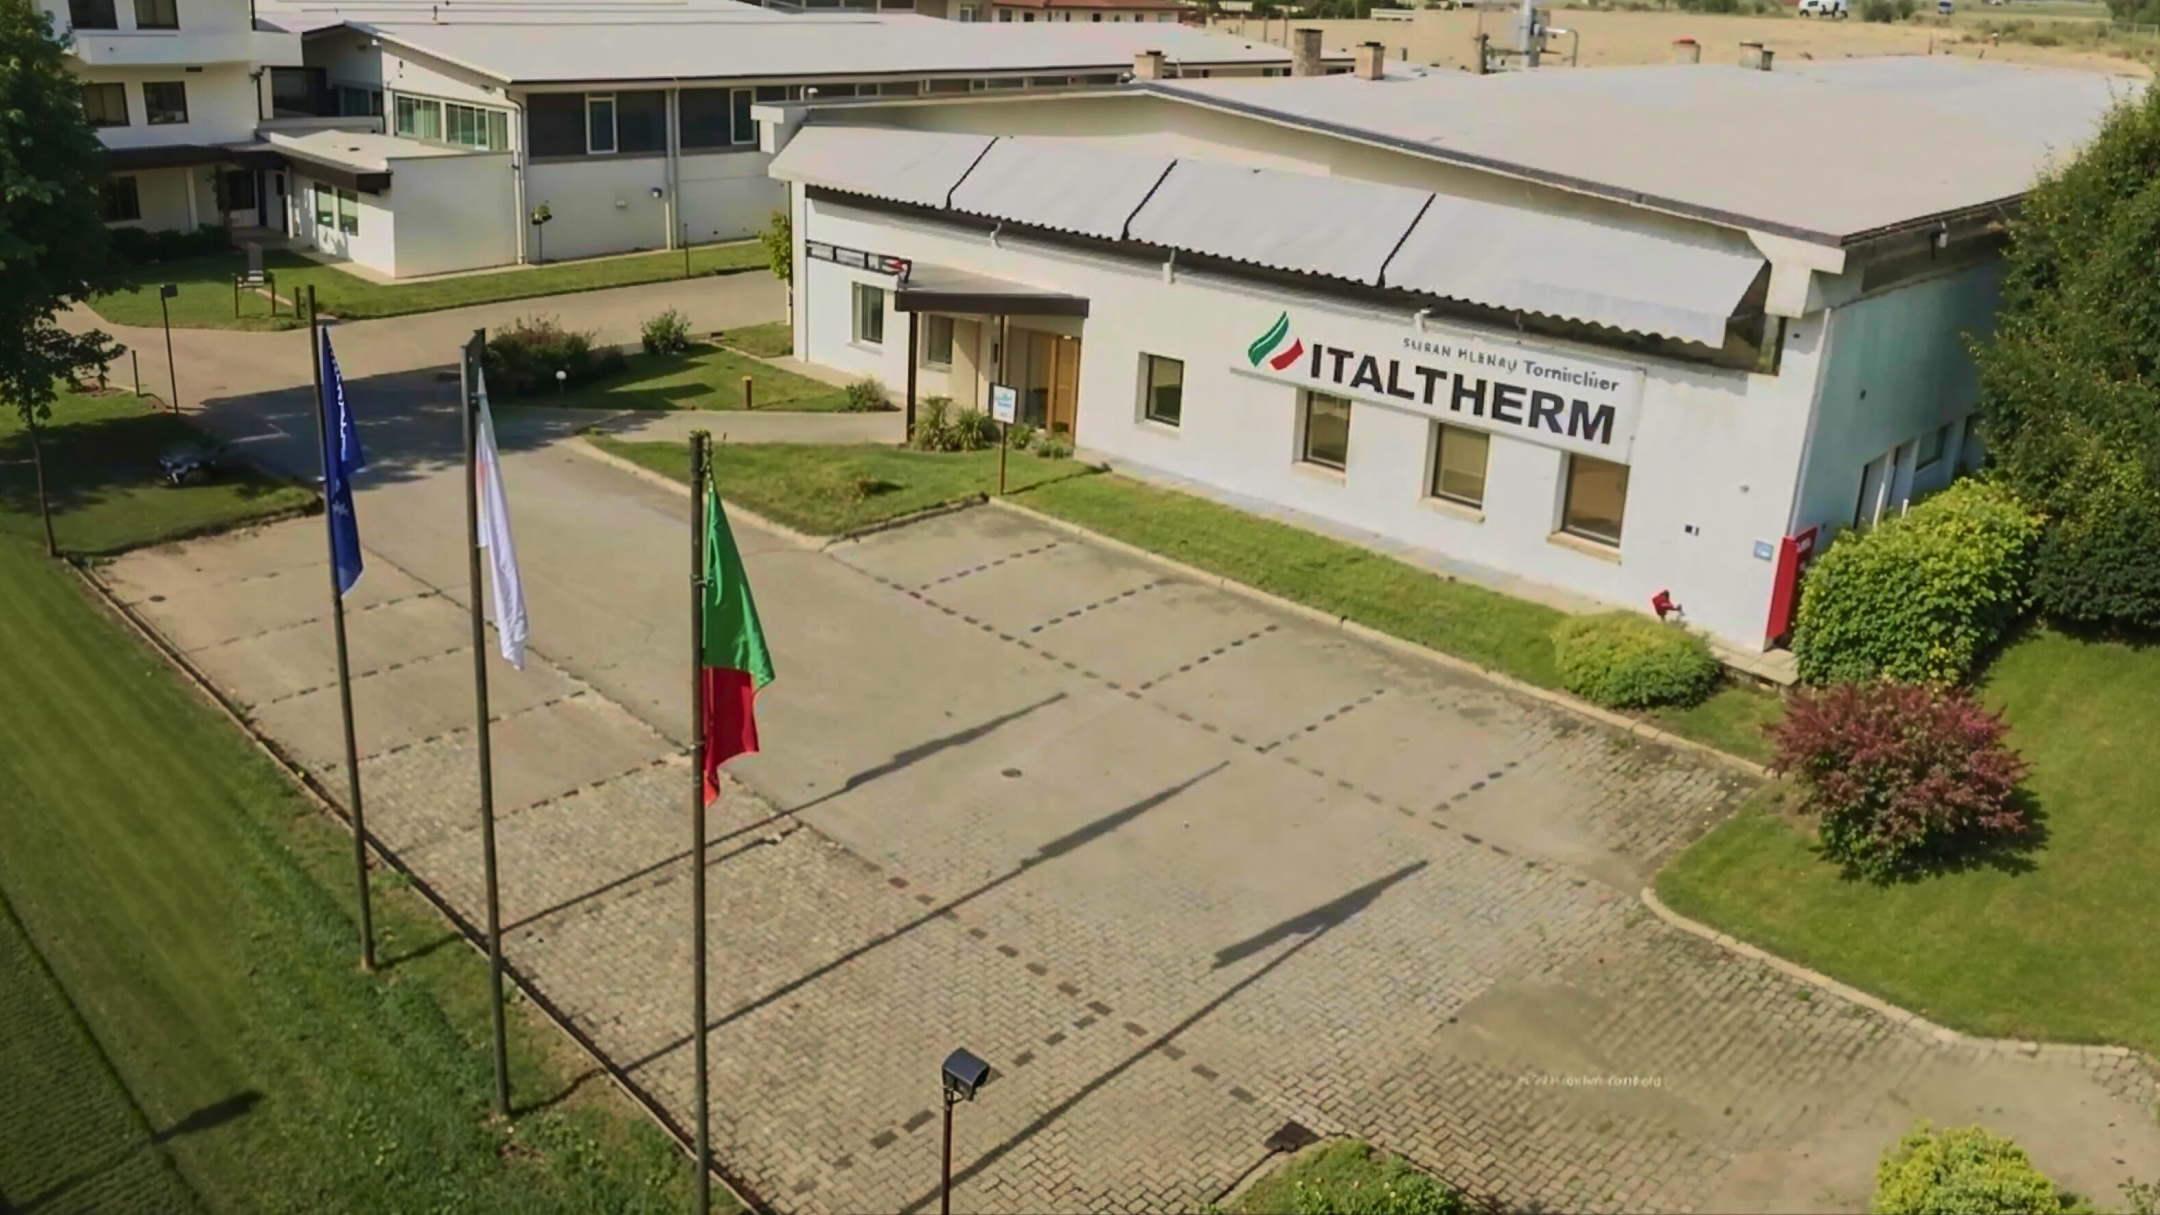
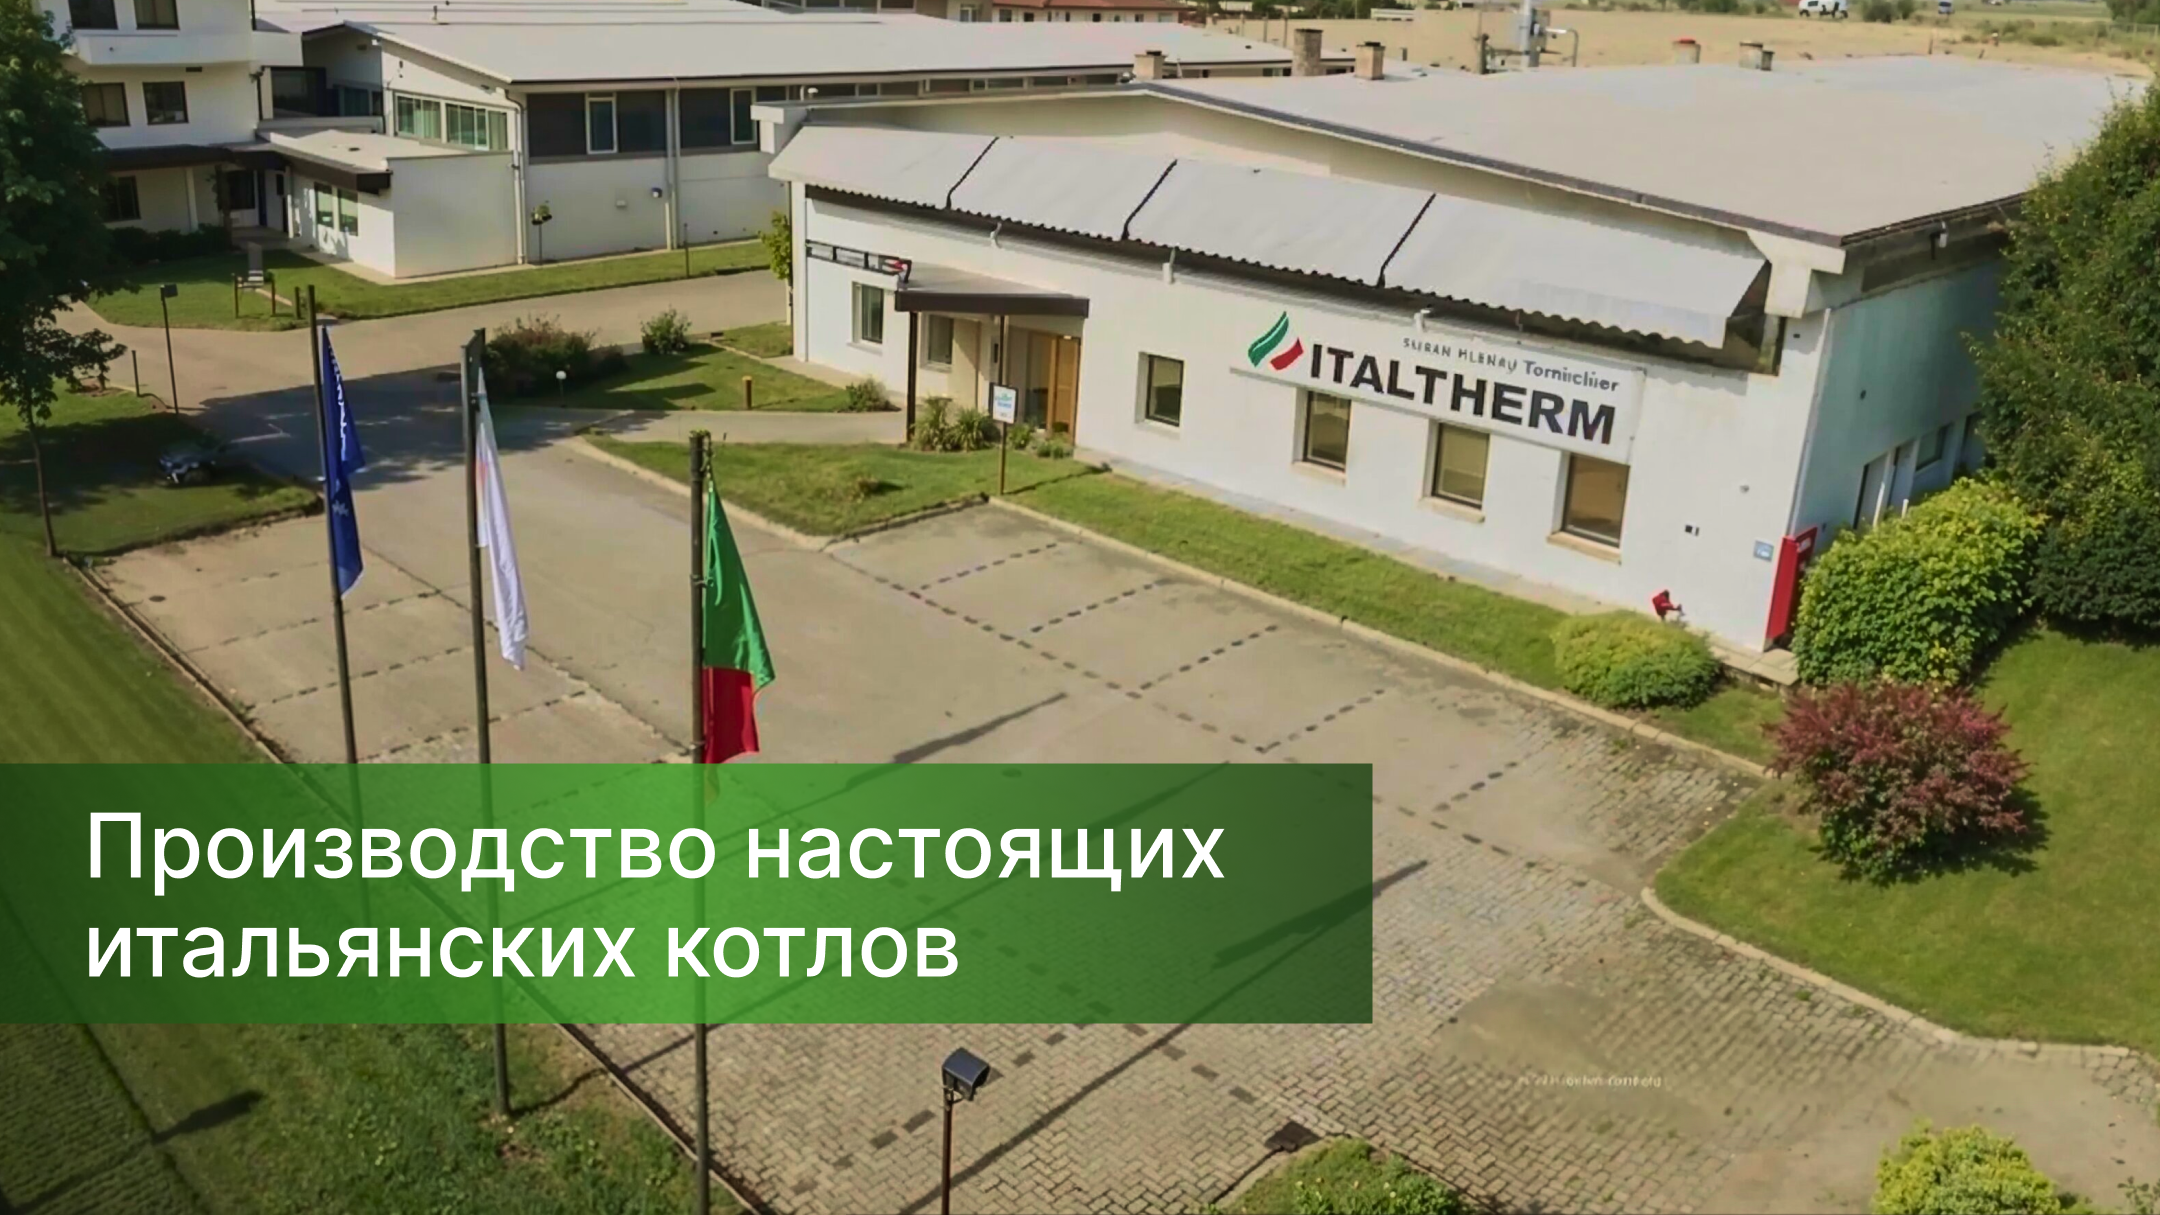
feat: added video-v-01

Changed region(s): [[0.0, 0.6091, 0.6514, 0.8527]]

diff --git a/css/video-v-01.css b/css/video-v-01.css
@@ -43,8 +43,8 @@
           filter: brightness(0.5);
 }
 .video-v-01__video-cover:hover .video-v-01__video-cover-image {
-  -webkit-filter: brightness(0.9);
-          filter: brightness(0.9);
+  -webkit-filter: brightness(1);
+          filter: brightness(1);
 }
 .video-v-01__video-cover-button {
   position: absolute;
@@ -74,71 +74,6 @@
   .video-v-01__video-cover-button {
     width: 50px;
   }
-}
-.video-v-01__video-cover:has(.video-v-01__video-cover-button:hover) .video-v-01__video-cover-image {
-  -webkit-filter: brightness(1);
-          filter: brightness(1);
-}
-.video-v-01__video-cover-text {
-  position: absolute;
-  left: 0;
-  bottom: 128px;
-  max-width: 915px;
-  padding: 20px 17px;
-  padding-left: 55px;
-  -webkit-box-sizing: border-box;
-          box-sizing: border-box;
-  font-weight: 500;
-  font-size: 59px;
-  line-height: 111%;
-  color: #fff;
-  background: -webkit-gradient(linear, left top, right top, color-stop(0.26%, #194011), color-stop(48.7%, #40a32a), to(#194011));
-  background: linear-gradient(90deg, #194011 0.26%, #40a32a 48.7%, #194011 100%);
-  opacity: 0.8;
-  -webkit-transition: -webkit-filter ease-out 0.2s;
-  transition: -webkit-filter ease-out 0.2s;
-  transition: filter ease-out 0.2s;
-  transition: filter ease-out 0.2s, -webkit-filter ease-out 0.2s;
-}
-@media (max-width: 1500px) {
-  .video-v-01__video-cover-text {
-    bottom: 89px;
-    max-width: 724px;
-    padding: 16px 13px;
-    padding-left: 44px;
-    font-size: 47px;
-  }
-}
-@media (max-width: 1200px) {
-  .video-v-01__video-cover-text {
-    bottom: 65px;
-    max-width: 604px;
-    padding: 14px 12px;
-    padding-left: 37px;
-    font-size: 39px;
-  }
-}
-@media (max-width: 992px) {
-  .video-v-01__video-cover-text {
-    bottom: 36px;
-    max-width: 462px;
-    padding: 11px 9px;
-    padding-left: 28px;
-    font-size: 30px;
-  }
-}
-@media (max-width: 768px) {
-  .video-v-01__video-cover-text {
-    bottom: 17px;
-    max-width: 228px;
-    padding: 6px 5px;
-    padding-left: 14px;
-    font-size: 14px;
-  }
-}
-.video-v-01__video-cover:hover .video-v-01__video-cover-text {
-  -webkit-filter: brightness(1);
-          filter: brightness(1);
 }
 .video-v-01__video.active .video-v-01__video-frame {
   display: block;

diff --git a/scss/video-v-01.scss b/scss/video-v-01.scss
@@ -38,7 +38,7 @@
       }
 
       &:hover &-image {
-        filter: brightness(0.9);
+        filter: brightness(1);
       }
 
       &-button {
@@ -65,63 +65,6 @@
         @include tablet {
           width: 50px;
         }
-      }
-
-      &:has(&-button:hover) &-image {
-        filter: brightness(1);
-      }
-
-      &-text {
-        position: absolute;
-        left: 0;
-        bottom: 128px;
-        max-width: 915px;
-        padding: 20px 17px;
-        padding-left: 55px;
-        box-sizing: border-box;
-        font-weight: 500;
-        font-size: 59px;
-        line-height: 111%;
-        color: #fff;
-        background: linear-gradient(90deg, #194011 0.26%, #40a32a 48.7%, #194011 100%);
-        opacity: 0.8;
-        transition: filter ease-out 0.2s;
-
-        @include desktoplg {
-          bottom: 89px;
-          max-width: 724px;
-          padding: 16px 13px;
-          padding-left: 44px;
-          font-size: 47px;
-        }
-
-        @include desktop {
-          bottom: 65px;
-          max-width: 604px;
-          padding: 14px 12px;
-          padding-left: 37px;
-          font-size: 39px;
-        }
-
-        @include laptop {
-          bottom: 36px;
-          max-width: 462px;
-          padding: 11px 9px;
-          padding-left: 28px;
-          font-size: 30px;
-        }
-
-        @include tablet {
-          bottom: 17px;
-          max-width: 228px;
-          padding: 6px 5px;
-          padding-left: 14px;
-          font-size: 14px;
-        }
-      }
-
-      &:hover &-text {
-        filter: brightness(1);
       }
     }
 

diff --git a/video-v-01.html b/video-v-01.html
@@ -23,10 +23,6 @@
               alt="cover"
             />
             <button class="video-v-01__video-cover-button"></button>
-
-            <div class="video-v-01__video-cover-text">
-              Производство настоящих итальянских котлов
-            </div>
           </div>
 
           <iframe
